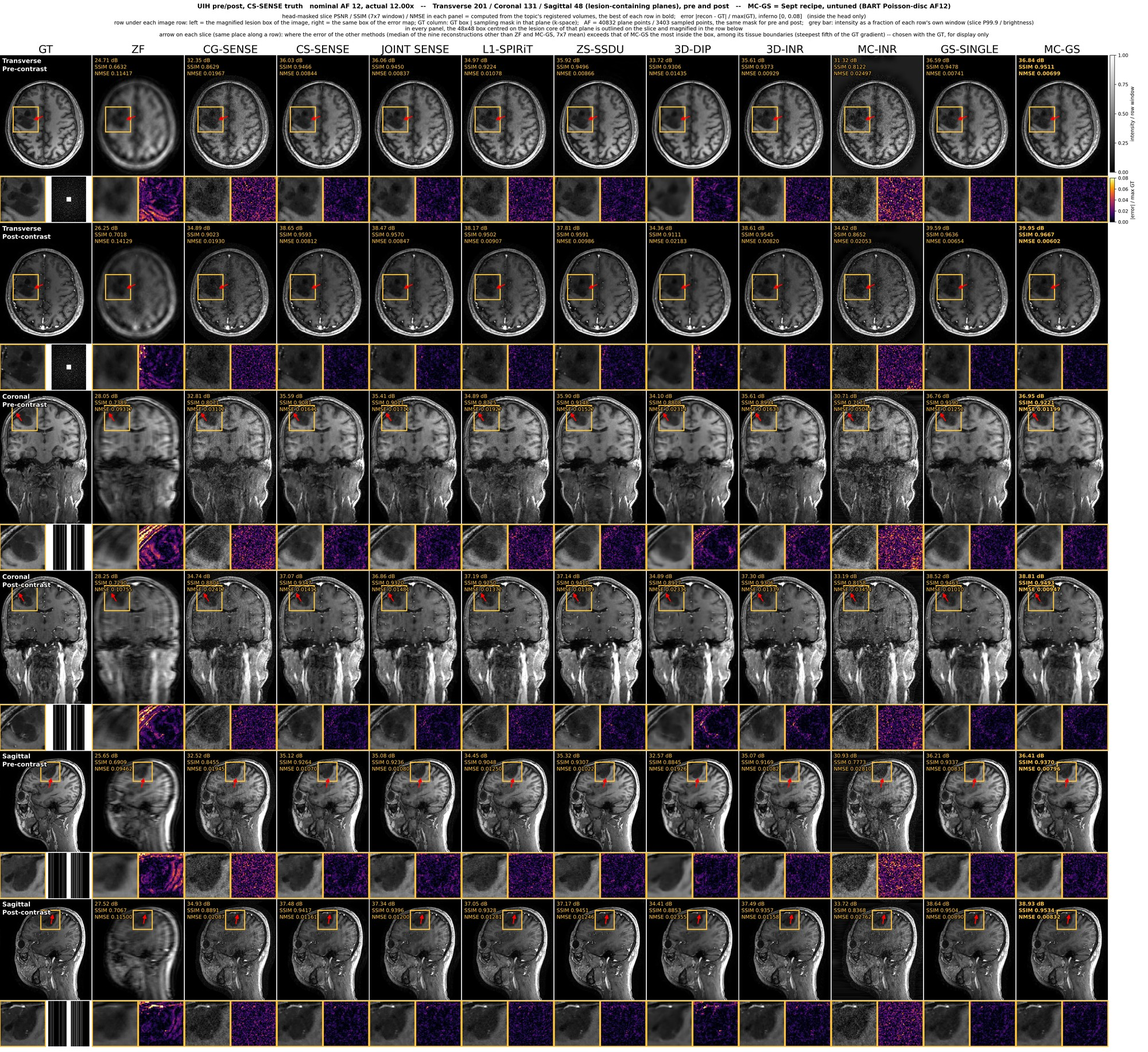
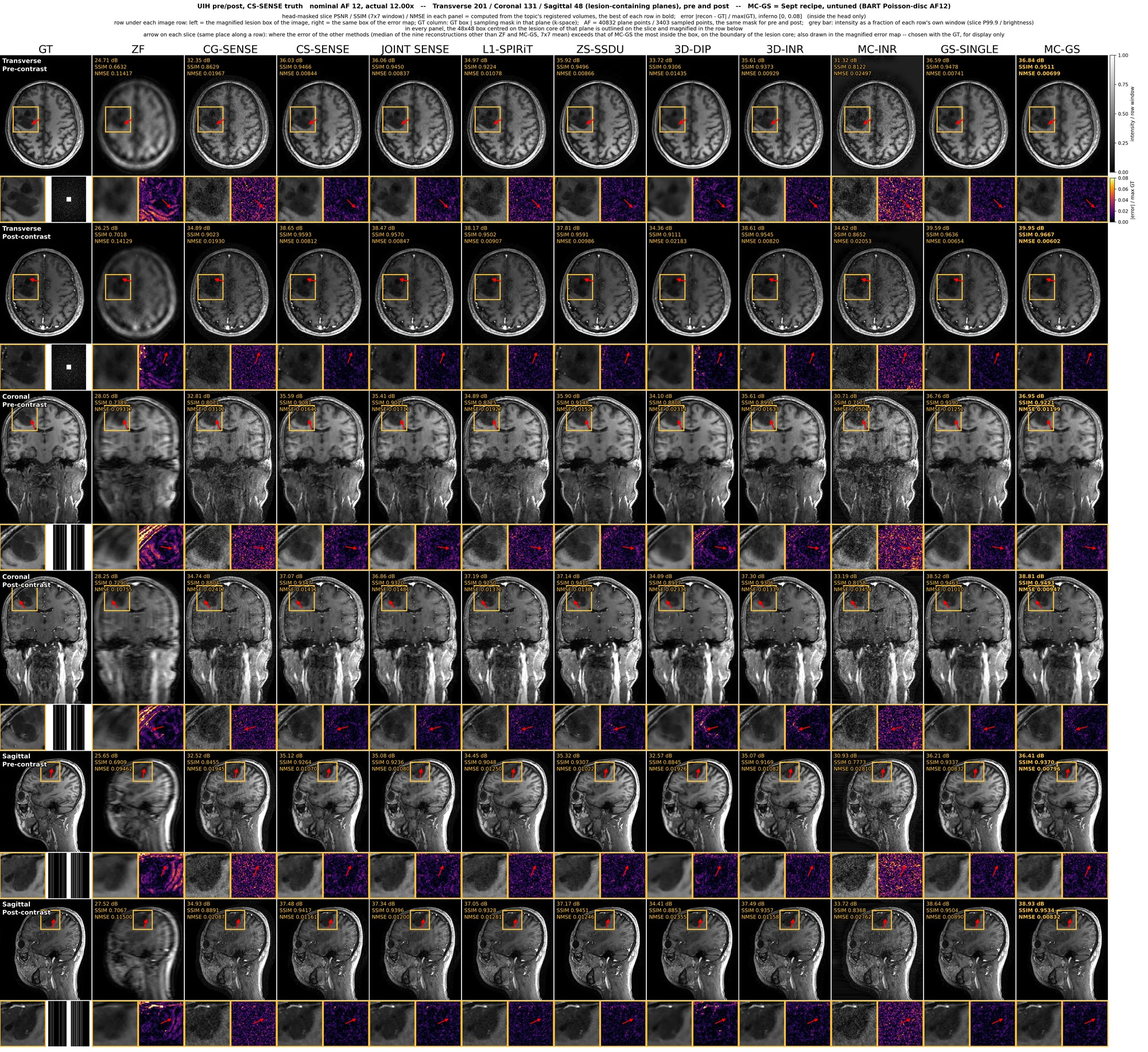
ce af12 optimal figure: arrows on the lesion-core boundary, away from the skull, also in the error map
User 2026-11-22: the arrow should mark the lesion boundary (not the skull) at a place of the error map that favours
MC-GS. New --arrow_mode lesion (ROI boundary band, >= 10 px from the head edge, stops if MC-GS is not better there)
and --arrow_on main+err. Panel numbers unchanged (MC-GS first 18/18). PNG + 600-dpi PDF redrawn on the server
(v2_lesion_arrow); preview, record JSON and README updated.

diff --git a/autoresearch/ce_af16_lesion_figs_20261107/fig_lesion_plane_prepost.py b/autoresearch/ce_af16_lesion_figs_20261107/fig_lesion_plane_prepost.py
@@ -58,9 +58,15 @@ ap.add_argument("--arrow", action="store_true",
                      "slice image, at the same place along the row = the point of the outlined box where the error of the "
                      "other methods (median of the nine reconstructions other than ZF and MC-GS, 7x7 local mean) exceeds "
                      "that of MC-GS the most. Chosen with the GT, for display only")
-ap.add_argument("--arrow_mode", choices=["gap", "edge"], default="gap",
+ap.add_argument("--arrow_mode", choices=["gap", "edge", "lesion"], default="gap",
                 help="edge = the arrow point is searched only among the tissue boundaries of the box (the fifth of the box "
-                     "with the steepest GT gradient)")
+                     "with the steepest GT gradient); lesion = only on the boundary of the lesion core in that plane "
+                     "(ROI dilated 2 px minus eroded 2 px), at least --arrow_skull_px from the edge of the head, so it "
+                     "never marks the skull (user, 2026-11-22)")
+ap.add_argument("--arrow_skull_px", type=int, default=10, help="lesion mode: smallest distance of the arrow point from the head edge")
+ap.add_argument("--arrow_on", choices=["main", "main+err"], default="main",
+                help="main+err = the arrow is also drawn in the magnified error map of the row below (zoom layout), so it "
+                     "marks the place on the error map where MC-GS is better (user, 2026-11-22)")
 ap.add_argument("--arrow_color", default="red")
 ap.add_argument("--err_layout", default="full", choices=["full", "zoom"],
                 help="row under each image row: full = whole error map (house style); zoom = left half the magnified box "
@@ -91,7 +97,8 @@ from matplotlib.cm import ScalarMappable  # noqa: E402
 from matplotlib.colors import Normalize  # noqa: E402
 from matplotlib.patches import Rectangle  # noqa: E402
 from matplotlib.ticker import MaxNLocator  # noqa: E402
-from scipy.ndimage import binary_dilation, binary_fill_holes, binary_opening, gaussian_filter, uniform_filter  # noqa: E402
+from scipy.ndimage import (binary_dilation, binary_erosion, binary_fill_holes, binary_opening, distance_transform_edt,  # noqa: E402
+                           gaussian_filter, uniform_filter)  # noqa: E402
 from skimage.metrics import structural_similarity  # noqa: E402
 
 TOPIC = args.topic or Path("/data0/congcong/code/GS/Results_20260908/CE_retro_cssense_af16_vdpois_cmp")   # evaluate.py TOPIC
@@ -289,14 +296,26 @@ def plane_rows(axis, idx):
             sm = {lab: uniform_filter(np.abs(vol[s][lab][sl] - g2) / gmax[s] * r["emask"], size=7, mode="nearest")
                   for lab in LABELS if lab != "ZF"}
             sc = D(np.median([sm[lab] for lab in sm if lab != MC], axis=0) - sm[MC], axis)[zs].copy()
-            sc[:7] = sc[-7:] = -np.inf; sc[:, :7] = sc[:, -7:] = -np.inf
+            mg = 4 if args.arrow_mode == "lesion" else 7
+            sc[:mg] = sc[-mg:] = -np.inf; sc[:, :mg] = sc[:, -mg:] = -np.inf
+            if args.arrow_mode == "lesion":
+                band = binary_dilation(c2, iterations=2) & ~binary_erosion(c2, iterations=2)
+                inner = distance_transform_edt(r["emask"]) >= args.arrow_skull_px
+                ok = D(band & inner, axis)[zs]
+                assert ok[mg:-mg, mg:-mg].any(), f"{ANAT[axis]} {idx}: no lesion-boundary pixel inside the box away from the head edge"
+                sc[~ok] = -np.inf
             if args.arrow_mode == "edge":
                 gy, gx = np.gradient(gaussian_filter(g2 / gmax[s], 1.0))
                 gm_ = D(np.hypot(gx, gy), axis)[zs]
                 sc[gm_ < np.percentile(gm_, 80)] = -np.inf
             yy, xx = np.unravel_index(np.argmax(sc), sc.shape)
             r["arrow"], r["arrow_gap"] = (int(xx), int(yy)), float(sc[yy, xx])
-            log(f"  arrow {ANAT[axis]} {idx} {s}: box pixel ({xx}, {yy}), error gap {r['arrow_gap']:.4f}")
+            at = {lab: float(D(sm[lab], axis)[zs][yy, xx]) for lab in sm}
+            r["arrow_worse"] = sorted(lab for lab in at if lab != MC and at[lab] > at[MC])
+            assert r["arrow_gap"] > 0, f"{ANAT[axis]} {idx} {s}: no candidate point where MC-GS has the lower error"
+            log(f"  arrow {ANAT[axis]} {idx} {s}: box pixel ({xx}, {yy}), error gap {r['arrow_gap']:.4f}, local error "
+                f"MC-GS {at[MC]:.4f}, higher in {len(r['arrow_worse'])} of {len(at) - 1} other reconstructions "
+                f"(not higher: {sorted(set(at) - set(r['arrow_worse']) - {MC})})")
     log(f"{ANAT[axis]} {idx}: all {len(LABELS) * 2 * 3} panel numbers match the evaluator; "
         f"zoom box centre ({ci}, {cj}), inset {corner}; strict {P['strict_success']}"
         + (f", S6 {P['score_six']:+.4f}" if P["score_six"] is not None else ""))
@@ -320,7 +339,7 @@ def render(rows, title, stem):
     if args.err_layout == "zoom":
         stem += "_zoomerr"
     stem += (f"_{args.err_cmap}" if args.err_cmap != "jet" else "") + (f"_err{args.err_vmax:g}" if args.err_vmax != 0.1 else "") \
-        + (f"_arrow{args.arrow_mode}" if args.arrow else "")
+        + (f"_arrow{args.arrow_mode}" if args.arrow else "") + ("_onerr" if args.arrow and args.arrow_on == "main+err" else "")
     ncol = len(LABELS) + 1
     pw, gap = 2.6, 0.025
     CBTRIM, top_in, cbpad, cbw, cbroom = 0.10, 1.35, 0.06, 0.13, (0.95 if args.cbar == "single" else 0.60)
@@ -382,6 +401,17 @@ def render(rows, title, stem):
         a.annotate("", xy=(x_, y_), xytext=(x_ + v[0], y_ + v[1]),
                    arrowprops=dict(arrowstyle="-|>", color=args.arrow_color, lw=2.2, mutation_scale=15, shrinkA=0, shrinkB=1))
 
+    def arrow_zoom(a, r):
+        """the same point in a magnified panel: head at the point, tail towards the centre of the box"""
+        if not (args.arrow and args.arrow_on == "main+err" and ZOOMROW):
+            return
+        x_, y_, w_ = r["arrow"][0], r["arrow"][1], r["zoom"]["w"]
+        v = np.array([w_ / 2 - x_, w_ / 2 - y_], float)
+        n = float(np.hypot(*v))
+        v = v / n * 13.0 if n > 4 else np.array([13.0, 13.0]) / 1.4
+        a.annotate("", xy=(x_, y_), xytext=(x_ + v[0], y_ + v[1]),
+                   arrowprops=dict(arrowstyle="-|>", color=args.arrow_color, lw=1.8, mutation_scale=13, shrinkA=0, shrinkB=1))
+
     y, im = top_in, None
     for k, (r, h, eh) in enumerate(zip(rows, hs, ehs)):
         s, axis = r["scan"], r["axis"]
@@ -425,6 +455,7 @@ def render(rows, title, stem):
                 bL.imshow(crop(D(v, axis), z), cmap="gray", vmin=0, vmax=r["vmax"], origin="lower", aspect="auto")
                 im = bR.imshow(crop(emap, z), cmap=args.err_cmap, vmin=0.0, vmax=args.err_vmax, origin="lower", aspect="auto")
                 zframe(bL); zframe(bR)
+                arrow_zoom(bR, r)
             else:
                 im = b.imshow(emap, cmap=args.err_cmap, vmin=0.0, vmax=args.err_vmax, origin="lower", aspect="auto")
                 put_inset(b, emap, r, x, y + h + gap, h, cmap=args.err_cmap, vmin=0.0, vmax=args.err_vmax)
@@ -472,6 +503,8 @@ def render(rows, title, stem):
         cap2 += ("\narrow on each slice (same place along a row): where the error of the other methods (median of the nine "
                  "reconstructions other than ZF and MC-GS, 7x7 mean) exceeds that of MC-GS the most inside the box"
                  + (", among its tissue boundaries (steepest fifth of the GT gradient)" if args.arrow_mode == "edge" else "")
+                 + (", on the boundary of the lesion core" if args.arrow_mode == "lesion" else "")
+                 + ("; also drawn in the magnified error map" if args.arrow_on == "main+err" and ZOOMROW else "")
                  + " -- chosen with the GT, for display only")
     fig.text(0.5, 1 - 0.40 / fh, ";   ".join(cap[:2]) + "\n" + ";   ".join(cap[2:]) + "\n" + cap2,
              ha="center", va="top", fontsize=11)
@@ -496,7 +529,7 @@ def render(rows, title, stem):
     record["figures"].append(dict(png=str(args.out / f"{stem}.png"), rows=[f"{r['scan']} {ANAT[r['axis']]} {r['idx']}" for r in rows],
                                   planes=planes, error_display=dict(cmap=args.err_cmap, vmax=args.err_vmax),
                                   arrows=([dict(row=f"{r['scan']} {ANAT[r['axis']]} {r['idx']}", box_xy=r["arrow"],
-                                                gap=r["arrow_gap"]) for r in rows] if args.arrow else None),
+                                                gap=r["arrow_gap"], error_higher_than_mcgs_in=r["arrow_worse"]) for r in rows] if args.arrow else None),
                                   arrow_mode=args.arrow_mode if args.arrow else None))
     log(f"  wrote {args.out / stem}.png")
 

diff --git a/autoresearch/ce_af12_rerun_20261112/README.md b/autoresearch/ce_af12_rerun_20261112/README.md
@@ -163,7 +163,7 @@ truth unchanged), redrawn in the article look:
 | planes | transverse 201 / coronal 131 / sagittal 48, all through the lesion; 48x48 box centred on the lesion core, magnified in the row below |
 | methods | ZF, CG-SENSE, CS-SENSE, Joint SENSE, L1-SPIRiT, ZS-SSDU, 3D-DIP, 3D-INR, MC-INR, GS-single, MC-GS (September recipe, untuned) |
 | error map | abs(recon - GT) / max(GT), raw per-pixel values, inferno, range [0, 0.08], inside the head only |
-| arrow | red, on every slice image, same place along a row: the point of the box where the error of the other methods (median of the nine reconstructions other than ZF and MC-GS, 7x7 local mean) exceeds that of MC-GS the most, searched among the tissue boundaries of the box (steepest fifth of the GT gradient) |
+| arrow | red, on every slice image and in the magnified error map below it, same place along a row: the point where the error of the other methods (median of the nine reconstructions other than ZF and MC-GS, 7x7 local mean) exceeds that of MC-GS the most, searched only on the boundary of the lesion core in that plane (ROI dilated 2 px minus eroded 2 px) and at least 10 px from the edge of the head |
 
 "Nature" style was read as the look of the T1 + FLAIR article figures (`../t1flair_af_record_fig_20261120/RECORD.md`,
 server folder `article_nature_edge`): inferno error map and red arrows on tissue boundaries. The project has no other
@@ -180,27 +180,44 @@ first on PSNR, SSIM and NMSE in all six panels (18 of 18) against all ten arms. 
 
 Whole head (table above): MC-GS 35.913 / 38.256 dB, +0.170 / +0.275 dB over GS-single.
 
+**Arrow rule, second version (user, 2026-11-22: "it should point to the boundary area of the lesion. And not the area
+of the skull. And the arrows should point to the areas on the error map that are beneficial for the MCGS").** The first
+version searched all tissue boundaries of the box, and in the coronal rows the arrow landed next to the skull. Now the
+point is taken on the lesion-core boundary only, away from the head edge, the script stops if no candidate has a lower
+MC-GS error, and the arrow is repeated in the magnified error map. Local error (7x7 mean) at the six points:
+
+| row | point in the box (x, y) | others' median minus MC-GS | reconstructions with a higher error than MC-GS (of 9, ZF not counted) |
+|---|---|---|---|
+| transverse 201 pre | (34, 14) | 0.0033 | 9 |
+| transverse 201 post | (30, 40) | 0.0029 | 9 |
+| coronal 131 pre | (36, 22) | 0.0030 | 9 |
+| coronal 131 post | (13, 21) | 0.0027 | 9 |
+| sagittal 48 pre | (29, 35) | 0.0022 | 8 (GS-single is not higher) |
+| sagittal 48 post | (35, 29) | 0.0021 | 7 (3D-DIP and 3D-INR are not higher) |
+
 **Files.**
 
-- Server: `codex_artifacts/mcgs_ce_af12_prepost_optimal_20261122/` -- `ce_af12_prepost_optimal_600dpi.pdf`
-  (7.7 MB, sha256 `35107543...27048acb`, one page, images embedded at 600 dpi, TrueType text),
-  `ce_af12_prepost_optimal.png` (200 dpi, sha256 `e830425a...c5bcb127`), the same two files under the script's long
+- Server: `codex_artifacts/mcgs_ce_af12_prepost_optimal_20261122/v2_lesion_arrow/` -- `ce_af12_prepost_optimal_600dpi.pdf`
+  (7.7 MB, sha256 `0e205646...71e1aad5`, one page, images embedded at 600 dpi, TrueType text),
+  `ce_af12_prepost_optimal.png` (200 dpi, sha256 `36c15d5f...d6865bc8`), the same two files under the script's long
   name, the preview JPEG and the record JSON (hashes of all 22 drawn volumes and of the truth, arrow points, margins).
+  The files directly in `mcgs_ce_af12_prepost_optimal_20261122/` are the first arrow version (superseded).
 - Mac: `figures/results_optimal/ce_af12_prepost_optimal_600dpi.pdf` and `.png` (git-ignored: a large file in the tree
   makes the gpu.py snapshot exceed its 100 MiB limit); `figures/ce_af12_prepost_optimal_preview.jpg` and
   `figures/ce_af12_prepost_optimal_record.json` are committed.
-- Jobs (CPU): j-20261122T085229-b53c0ce7 (PNG + PDF of record). Earlier drafts of the same drawing, with the caption
+- Jobs (CPU): j-20261122T090835-7a815479 (PNG + PDF of record; first arrow version j-20261122T085229-b53c0ce7). Earlier drafts of the same drawing, with the caption
   clipped or overlapping the method names, are in `CE_retro_cssense_af12/figures/prepost_three_201_131_48*_nature*`
   (`_v3` is the corrected one; the first figure, without output support, is `prepost_three_201_131_48_nature_v3`).
 
 **Command.** `fig_af12_prepost.py` (the wrapper of the record script) with
-`--three 201 131 48 --err_layout zoom --cbar single --err_vmax 0.08 --err_cmap inferno --arrow --arrow_mode edge
---arrow_color red --pdf --pdf_dpi 600` and the two `--arm` overrides of the support version. The options
-`--err_cmap`, `--arrow`, `--arrow_mode`, `--arrow_color` were added to
+`--three 201 131 48 --err_layout zoom --cbar single --err_vmax 0.08 --err_cmap inferno --arrow --arrow_mode lesion
+--arrow_on main+err --arrow_color red --pdf --pdf_dpi 600` and the two `--arm` overrides of the support version. The options
+`--err_cmap`, `--arrow`, `--arrow_mode`, `--arrow_on`, `--arrow_skull_px`, `--arrow_color` were added to
 `../ce_af16_lesion_figs_20261107/fig_lesion_plane_prepost.py` on 2026-11-22; their defaults leave every earlier
 figure unchanged (jet, no arrow).
 
-**To state with it.** The arrow is placed with the GT and is for display only. The margins over GS-single are 0.19 to
+**To state with it.** The arrow is placed with the GT, at the lesion-boundary point most favourable to MC-GS, and is for
+display only; at the two sagittal points one or two other reconstructions are locally as good or better. The margins over GS-single are 0.19 to
 0.36 dB on one subject, one mask draw and one seed; the limits below apply.
 
 ## Limits to state with any AF12 number
